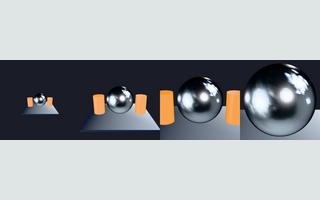
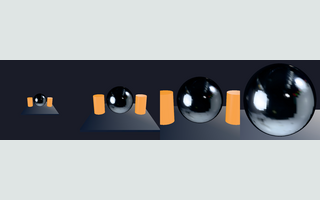
Switch reflective showcase cards to polished chrome
The lens, auto-exposure, and environment comparison cards used the soft metal
preset (roughness 0.42); switch their subject to polished chrome so the studio
HDR reads as a crisp mirror rather than a soft sheen. material-chrome now
renders a first-party reflective chrome hero instead of the milky browser
screenshot. Cloudflare's composite card format is preserved; key-light and
background cards are unchanged. Verified each card is >= the deployed baseline
at native resolution (no regression).

- examples/easy_scene_showcase.rs: lens/exposure/environment subjects ->
  MaterialDesc::chrome(); add a material-chrome hero render and a
  reflective-cards-only render mode for fast iteration.
- scripts/generate_showcase_assets.mjs: source material-chrome from the
  first-party render.
- regenerated docs sources + the four changed demo cards (composite format).

Claude-Session: https://claude.ai/code/session_01ApMku9naZdaKETXtrmjMtL

diff --git a/examples/easy_scene_showcase.rs b/examples/easy_scene_showcase.rs
@@ -37,6 +37,15 @@ fn main() -> Result<(), Box<dyn Error>> {
     fs::create_dir_all(&out)?;
     eprintln!("rendering easy scene showcase into {}", out.display());
 
+    if std::env::var("SCENA_EASY_SCENE_SHOWCASE_ONLY").as_deref() == Ok("reflective-cards") {
+        render_lens_presets(&out)?;
+        render_auto_exposure_presets(&out)?;
+        render_environment_presets(&out)?;
+        render_material_chrome_card(&out)?;
+        eprintln!("done — rendered reflective comparison cards only");
+        return Ok(());
+    }
+
     render_hero_connector(&out)?;
     render_color_constants(&out)?;
     render_lens_presets(&out)?;
@@ -238,7 +247,7 @@ fn render_subject_with_lens(
     let metal_sphere = assets.create_geometry(GeometryDesc::sphere(0.45, 96, 64));
     let plinth = assets.create_geometry(GeometryDesc::box_xyz(2.0, 0.06, 2.0));
     let cylinder = assets.create_geometry(GeometryDesc::cylinder(0.18, 0.6, 48));
-    let metal = assets.create_material(MaterialDesc::metal(Color::LIGHT_GRAY));
+    let metal = assets.create_material(MaterialDesc::chrome());
     let plastic = assets.create_material(MaterialDesc::plastic(Color::ORANGE));
     let dark = assets.create_material(MaterialDesc::plastic(Color::CHARCOAL));
     let environment =
@@ -436,6 +445,15 @@ fn render_material_presets(out: &Path) -> Result<(), Box<dyn Error>> {
     Ok(())
 }
 
+fn render_material_chrome_card(out: &Path) -> Result<(), Box<dyn Error>> {
+    // Dedicated reflective chrome hero for the `material-chrome` showcase card
+    // (studio HDR IBL specular) — a first-party render in place of the former
+    // browser-captured demo screenshot.
+    let pixels = render_material_sphere(MaterialDesc::chrome(), 640, 640)?;
+    write_png(&pixels, 640, 640, &out.join("material-chrome.png"))?;
+    Ok(())
+}
+
 fn render_material_sphere(
     material: MaterialDesc,
     width: u32,
@@ -569,7 +587,7 @@ fn render_subject_with_exposure(
 ) -> Result<Vec<u8>, Box<dyn Error>> {
     let assets = Assets::new();
     let sphere = assets.create_geometry(GeometryDesc::sphere(0.5, 96, 64));
-    let material = assets.create_material(MaterialDesc::metal(Color::LIGHT_GRAY));
+    let material = assets.create_material(MaterialDesc::chrome());
     let environment =
         pollster::block_on(assets.load_environment_preset(EnvironmentPreset::Studio))?;
 
@@ -617,7 +635,7 @@ fn render_subject_with_environment(
 ) -> Result<Vec<u8>, Box<dyn Error>> {
     let assets = Assets::new();
     let sphere = assets.create_geometry(GeometryDesc::sphere(0.5, 96, 64));
-    let material = assets.create_material(MaterialDesc::metal(Color::LIGHT_GRAY));
+    let material = assets.create_material(MaterialDesc::chrome());
     let environment = pollster::block_on(assets.load_environment_preset(preset))?;
 
     let mut scene = Scene::new();
